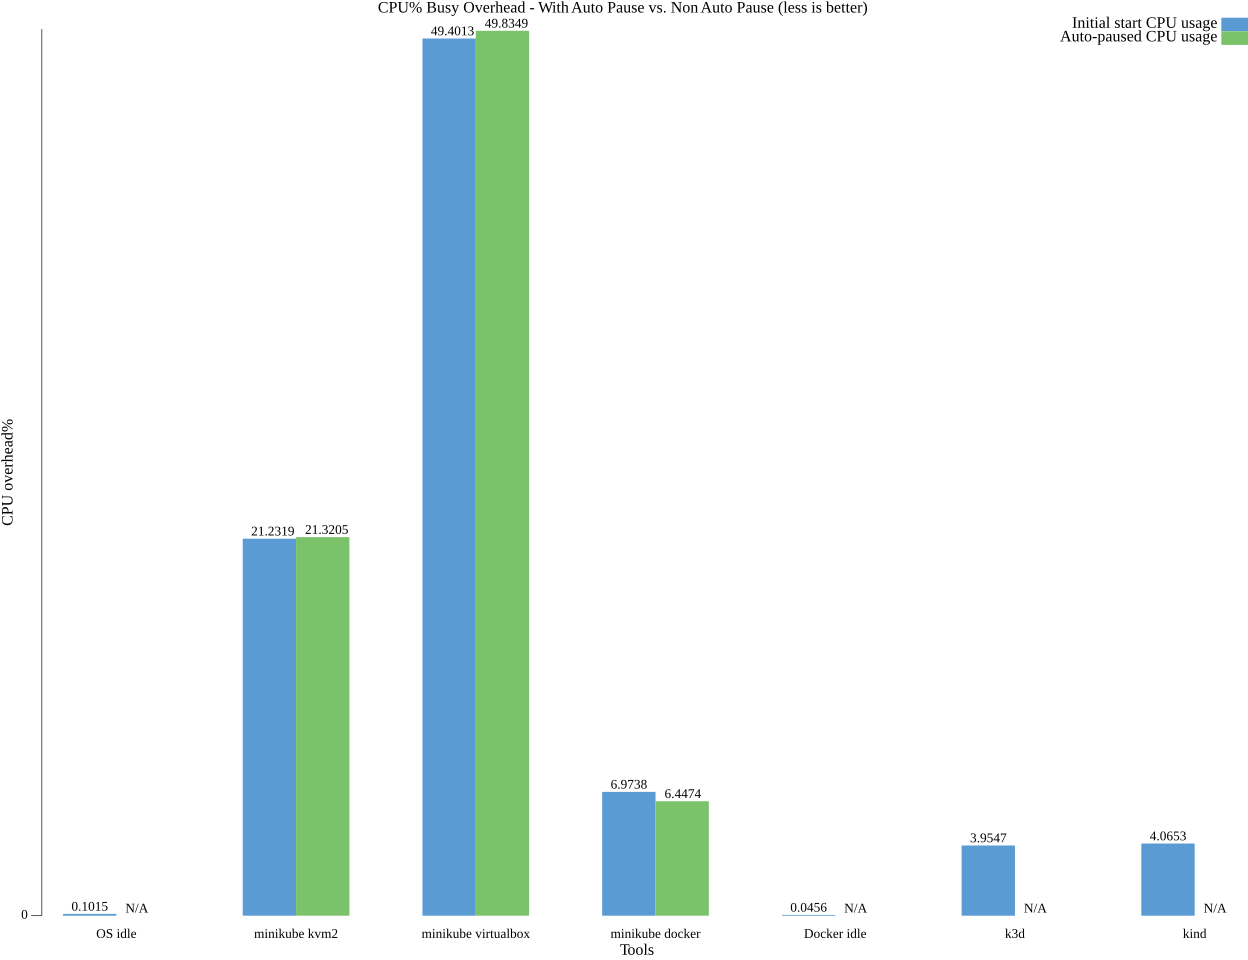
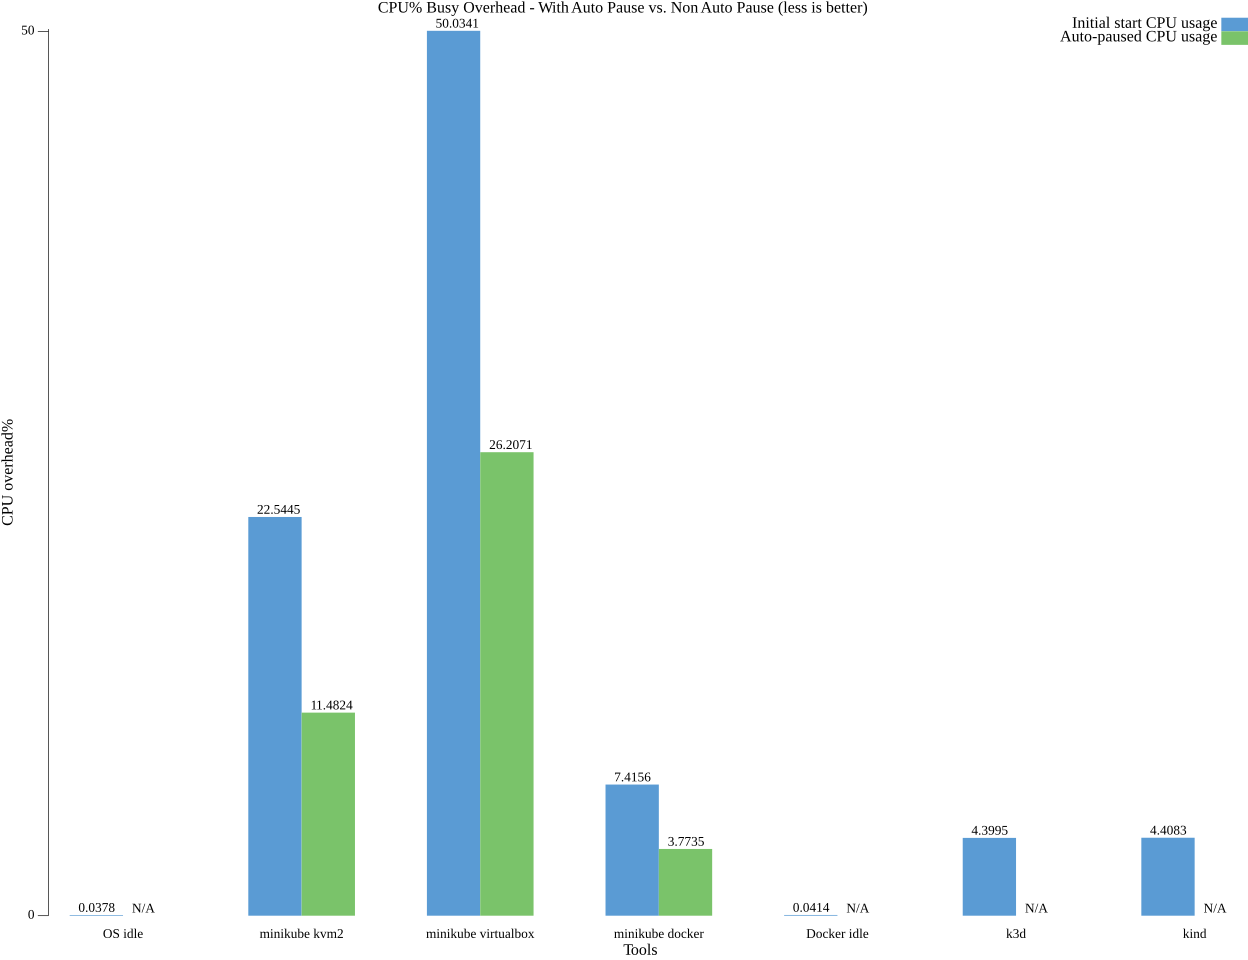
Update linux auto-pause result with improved method

diff --git a/site/content/en/docs/benchmarks/cpuUsage/linux/_index.md b/site/content/en/docs/benchmarks/cpuUsage/linux/_index.md
@@ -12,6 +12,9 @@ This chart was measured only after the start without deploying any pods.
 
 ![idleOnly](/images/benchmarks/cpuUsage/idleOnly/linux.png)
 
+NOTE: the benchmark environment uses GCE with nested virtualization. This may affect virtual machine's overhead.   
+https://cloud.google.com/compute/docs/instances/enable-nested-virtualization-vm-instances   
+
 ## CPU% Busy Overhead - With Auto Pause vs. Non Auto Pause
 
 This chart shows each tool's CPU busy overhead percentage with auto-pause addon.   
@@ -20,11 +23,19 @@ This chart was measured with the following steps.
 By these steps, we compare CPU usage with auto-pause vs. non-auto-pause.  
 
  1. start each local kubernetes tool
- 2. deploy sample application(nginx deployment)
+ 2. deploy sample application(nginx deployment) to each tool
  3. wait 1 minute without anything
  4. measure No.3 idle CPU usage with [cstat](https://github.com/tstromberg/cstat)
- 5. enable auto-pause addons(only if tool is minikube)
- 6. wait 3 minute without anything
- 7. measure No.6 idle CPU usage with [cstat](https://github.com/tstromberg/cstat)
+ 5. if tool is minikube, enable auto-pause addon which pause control plane
+ 6. if tool is minikube, wait 1 minute so that control plane will become Paused status(It takes 1 minute to become Pause status from Stopped status)  
+ 7. if tool is minikube, verify if minikube control plane is paused
+ 8. if tool is minikube, wait 3 minute without anything
+ 9. if tool is minikube, measure No.8 idle CPU usage with [cstat](https://github.com/tstromberg/cstat)
+
+No.1-4: Initial start CPU usage with sample(nginx) deployment   
+No.5-9: Auto Paused CPU usage with sample(nginx) deployment   
  
 ![autopause](/images/benchmarks/cpuUsage/autoPause/linux.png)
+
+NOTE: the benchmark environment uses GCE with nested virtualization. This may affect virtual machine's overhead.   
+https://cloud.google.com/compute/docs/instances/enable-nested-virtualization-vm-instances   

diff --git a/hack/benchmark/cpu_usage/auto_pause/README.md b/hack/benchmark/cpu_usage/auto_pause/README.md
@@ -5,8 +5,8 @@ These scripts are for the benchmark of cpu usage, minikube vs kind vs k3d.
  * `update_summary.sh`: create one summary csv file of each drivers and products
  * `chart.go`: create bar chart graph as a png file
  
-In `benchmark_local_k8s.sh`, we compare minikube drivers(hyperkit, virtualbox, docker) and kind, k3d, Docker for Mac Kubernetes in case of macOS.   
-In `benchmark_local_k8s.sh`, we compare minikube drivers(kvm2, virtualbox, docker) and kind, k3d in case of Linux.   
+In `benchmark_local_k8s.sh`, we compare minikube drivers(hyperkit, virtualbox, docker with auto-pause addon) and kind, k3d, Docker for Mac Kubernetes in case of macOS.   
+In `benchmark_local_k8s.sh`, we compare minikube drivers(kvm2, virtualbox, docker with auto-pause addon) and kind, k3d in case of Linux.   
 `benchmark_local_k8s.sh` take these steps to measure `auto-pause` vs. `non auto-pause`.   
 
  1. start each local kubernetes tool
